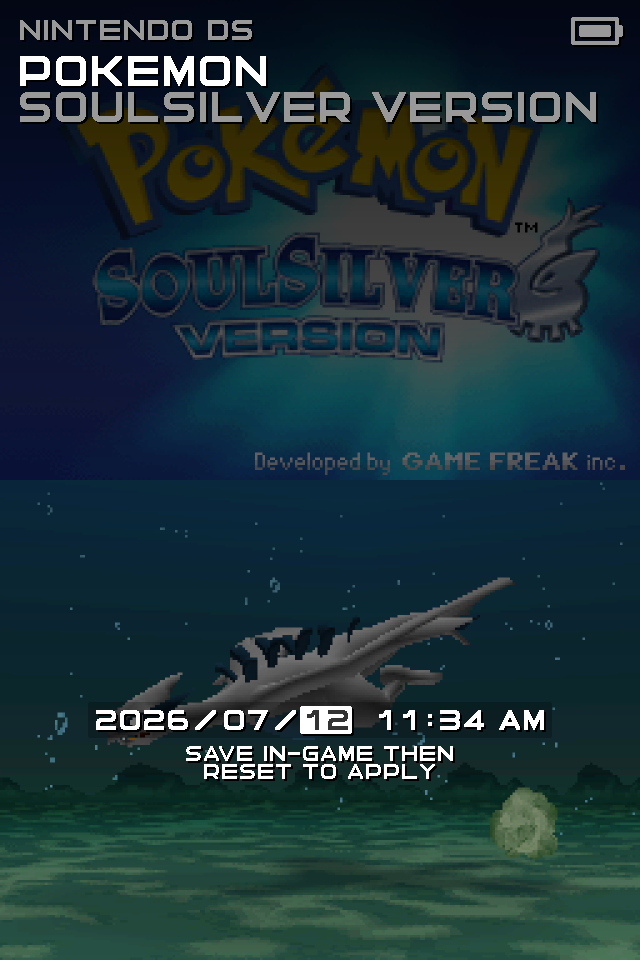
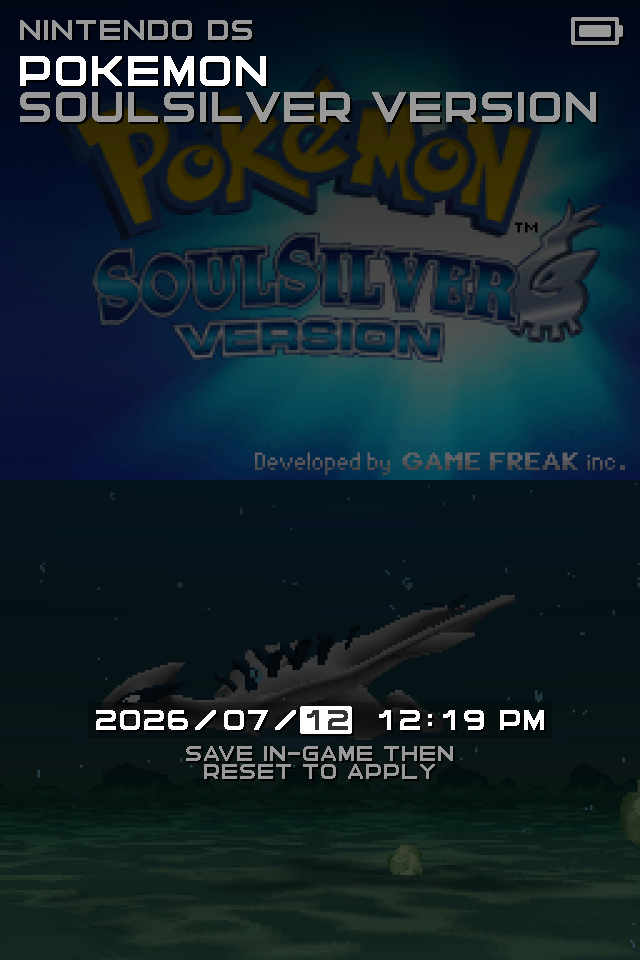
revised datetime UI

diff --git a/source/libhookdrastic/libhookdrastic.c b/source/libhookdrastic/libhookdrastic.c
@@ -2488,6 +2488,9 @@ static void App_datetime(void) {
 			XGL_SetRenderShader(renderer, default_shader);
 			XGL_RenderCopy(renderer, app.xgl.overlay, &(SDL_Rect){0,i*SCREEN_HEIGHT,1,SCREEN_HEIGHT}, NULL);
 			
+			XGL_SetRenderDrawColor(renderer, BLACK_TRIAD,0x80);
+			XGL_RenderFillRect(renderer, &(SDL_Rect){0,0,SCREEN_WIDTH,SCREEN_HEIGHT});
+			
 			char *lines[] = {
 				"Save in-game then",
 				"reset to apply",
@@ -2496,7 +2499,7 @@ static void App_datetime(void) {
 			for (int i=0; i<line_count; i++) {
 				int ow;
 				Font_getTextSize(font18, lines[i], &ow, NULL);
-				Font_shadowText(renderer, font18, lines[i], (SCREEN_WIDTH-ow)/2, y + 8 + h + (i * 18), WHITE_COLOR);
+				Font_shadowText(renderer, font18, lines[i], (SCREEN_WIDTH-ow)/2, y + 8 + h + (i * 18), LIGHT_COLOR);
 			}
 			
 			AA_rect(renderer, x,y,w,h, 0, TRIAD_ALPHA(BLACK_TRIAD,0x40));
